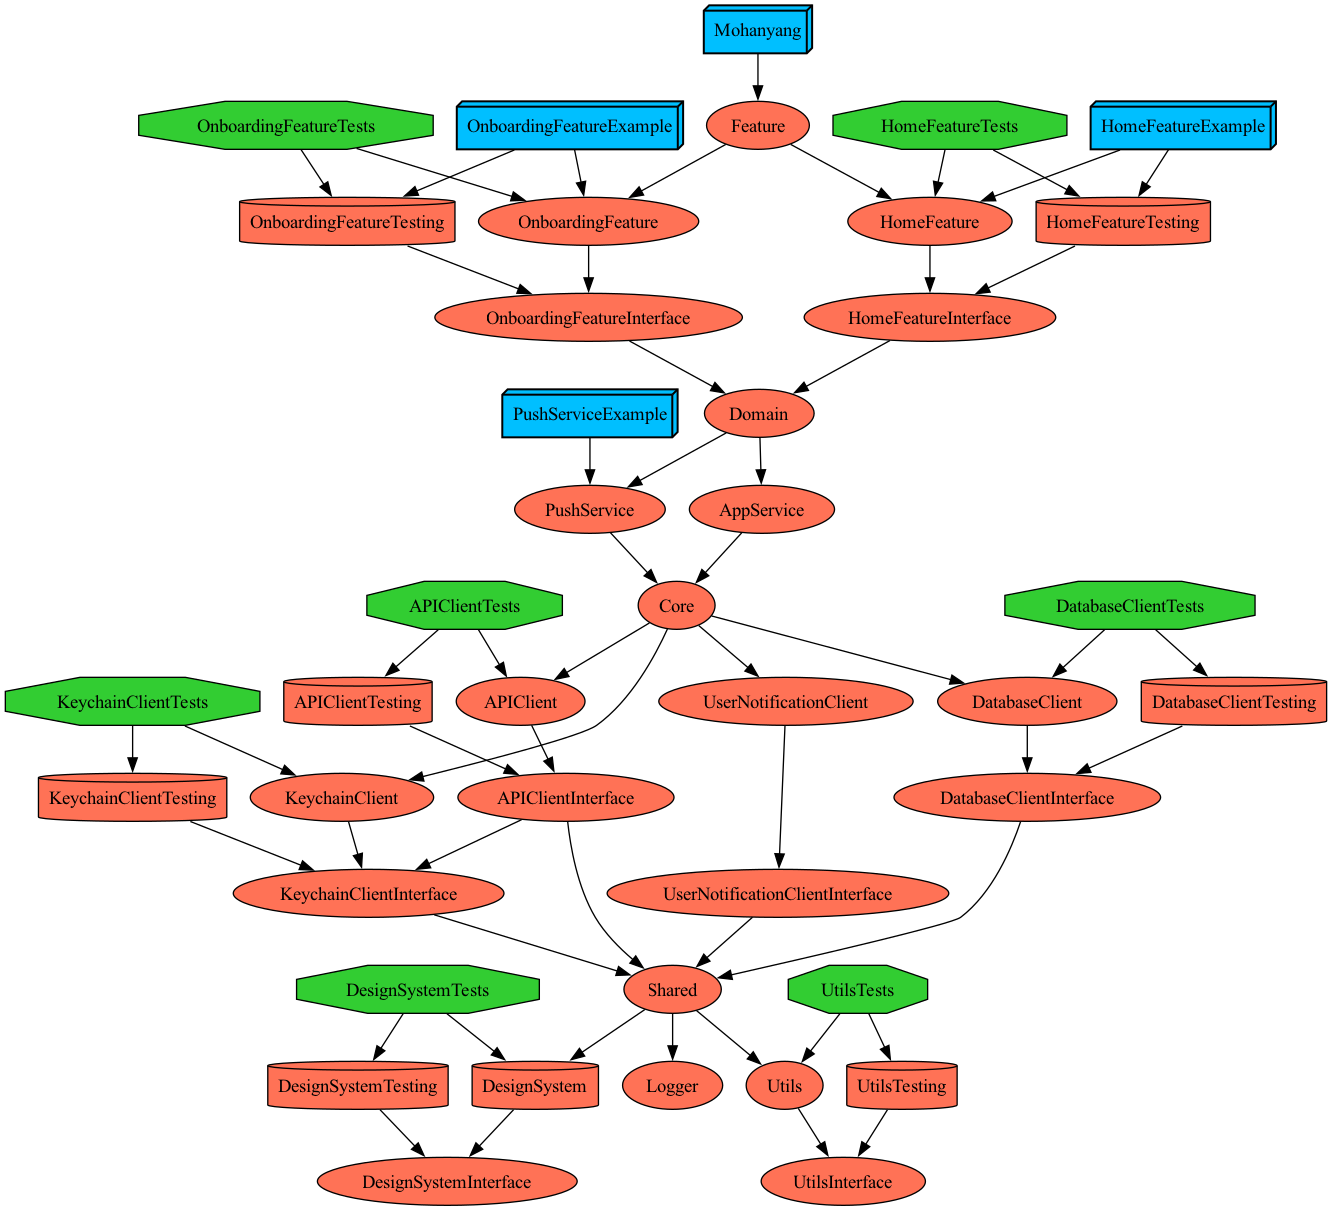
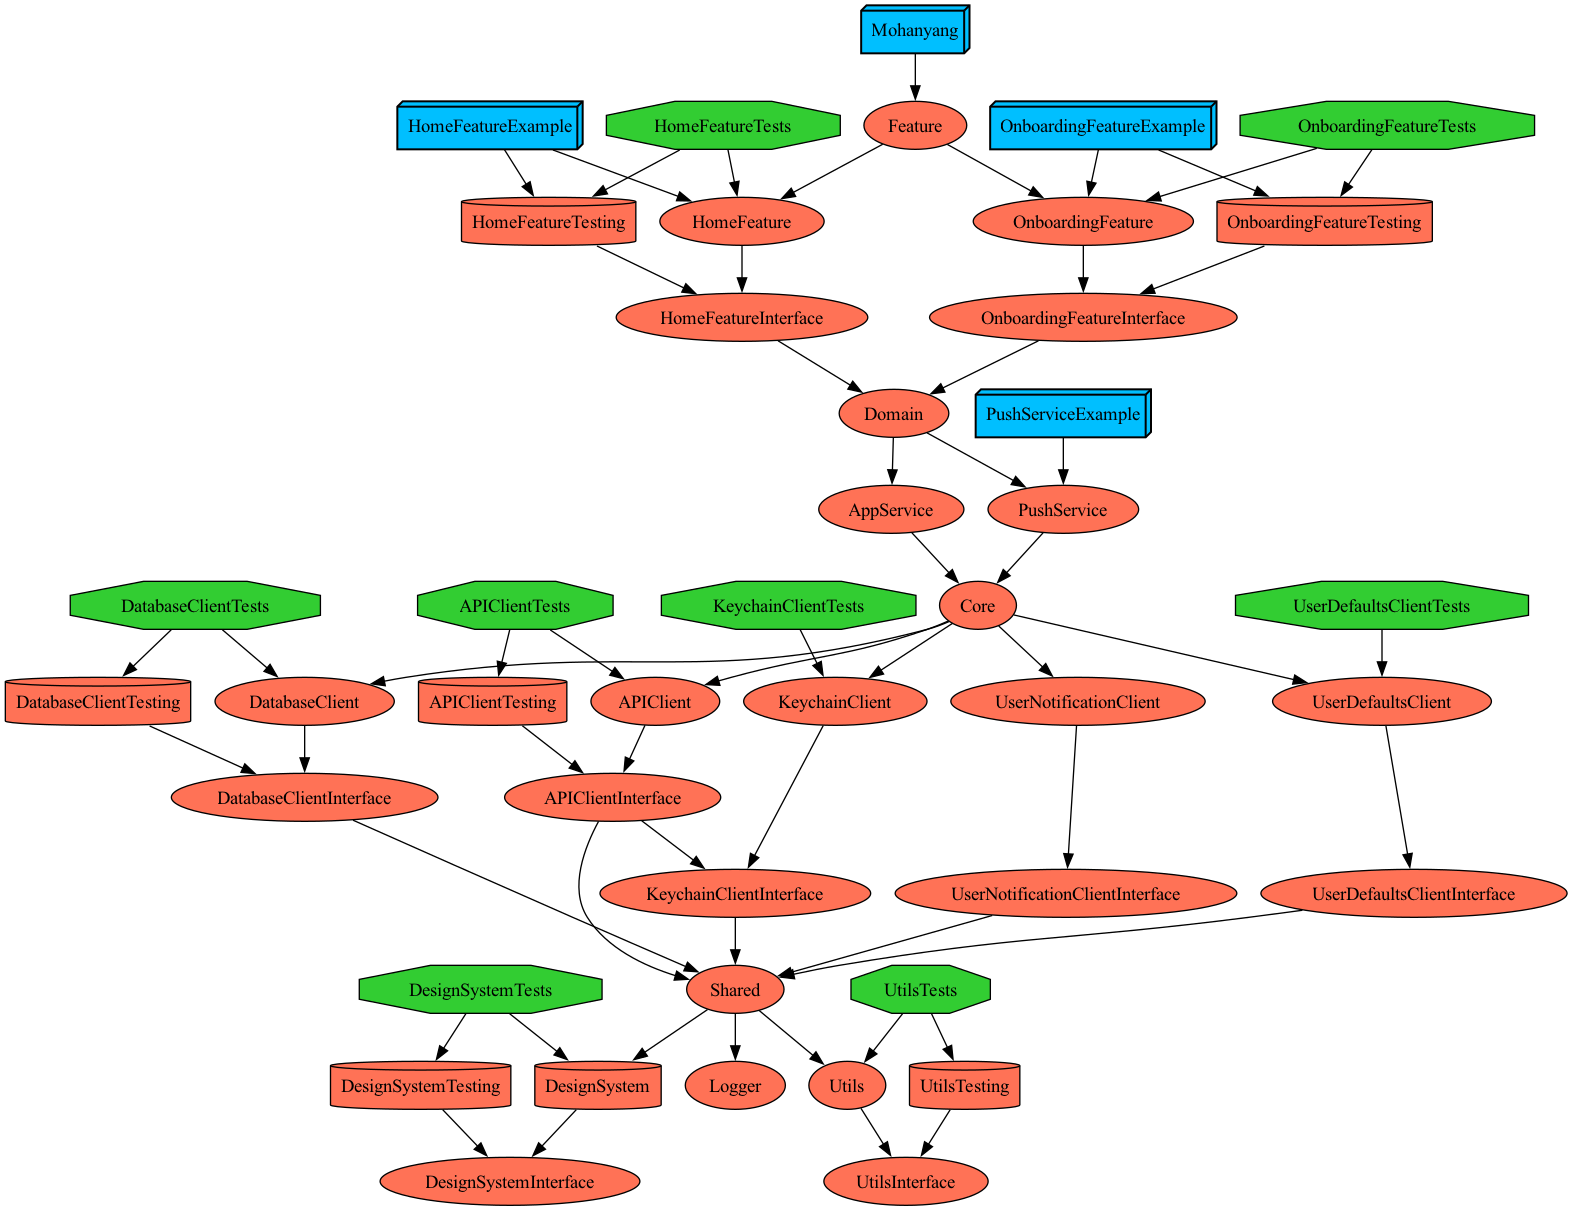
[CAT-104] UserDefaultsClient 모듈 추가 (#16)

Changed region(s): [[0.0, 0.0, 1.0, 1.0], [0.0308, 0.4583, 0.2155, 0.5194]]

diff --git a/Projects/Core/UserDefaultsClient/Tests/UserDefaultsClientTests.swift b/Projects/Core/UserDefaultsClient/Tests/UserDefaultsClientTests.swift
@@ -1,0 +1,129 @@
+//
+//  UserDefaultsClientTests.swift
+//  UserDefaultsClient
+//
+//  Created by devMinseok on 8/4/24.
+//
+
+import XCTest
+
+import UserDefaultsClient
+import UserDefaultsClientInterface
+
+import Dependencies
+
+final class UserDefaultsClientTests: XCTestCase {
+  @Dependency(UserDefaultsClient.self) var userDefaultsClient
+  
+  override func tearDown() {
+    withDependencies {
+      $0[UserDefaultsClient.self] = UserDefaultsClient.live()
+    } operation: {
+      userDefaultsClient.removePersistentDomain(bundleId: Bundle.main.bundleIdentifier ?? "")
+    }
+    super.tearDown()
+  }
+  
+  func testSetString() async {
+    await withDependencies {
+      $0[UserDefaultsClient.self] = UserDefaultsClient.live()
+    } operation: {
+      // given
+      let testKey: String = "TestKey"
+      let testValue: String = "TestString"
+      
+      // when
+      await userDefaultsClient.setString(testValue, key: testKey)
+      
+      // then
+      let result = userDefaultsClient.stringForKey(testKey)
+      XCTAssertEqual(result, testValue)
+    }
+  }
+  
+  func testSetBool() async {
+    await withDependencies {
+      $0[UserDefaultsClient.self] = UserDefaultsClient.live()
+    } operation: {
+      // given
+      let testKey: String = "TestKeyBool"
+      let testValue: Bool = true
+      
+      // when
+      await userDefaultsClient.setBool(testValue, testKey)
+      
+      // then
+      let result = userDefaultsClient.boolForKey(testKey)
+      XCTAssertEqual(result, testValue)
+    }
+  }
+  
+  func testSetData() async {
+    await withDependencies {
+      $0[UserDefaultsClient.self] = UserDefaultsClient.live()
+    } operation: {
+      // given
+      let testKey: String = "TestKeyData"
+      let testValue: Data = "TestData".data(using: .utf8)!
+      
+      // when
+      await userDefaultsClient.setData(testValue, testKey)
+      
+      // then
+      let result = userDefaultsClient.dataForKey(testKey)
+      XCTAssertEqual(result, testValue)
+    }
+  }
+  
+  func testSetDouble() async {
+    await withDependencies {
+      $0[UserDefaultsClient.self] = UserDefaultsClient.live()
+    } operation: {
+      // given
+      let testKey: String = "TestKeyDouble"
+      let testValue: Double = 123.456
+      
+      // when
+      await userDefaultsClient.setDouble(testValue, testKey)
+      
+      // then
+      let result = userDefaultsClient.doubleForKey(testKey)
+      XCTAssertEqual(result, testValue)
+    }
+  }
+  
+  func testSetInteger() async {
+    await withDependencies {
+      $0[UserDefaultsClient.self] = UserDefaultsClient.live()
+    } operation: {
+      // given
+      let testKey: String = "TestKeyInteger"
+      let testValue: Int = 123
+      
+      // when
+      await userDefaultsClient.setInteger(testValue, testKey)
+      
+      // then
+      let result = userDefaultsClient.integerForKey(testKey)
+      XCTAssertEqual(result, testValue)
+    }
+  }
+  
+  func testRemove() async {
+    await withDependencies {
+      $0[UserDefaultsClient.self] = UserDefaultsClient.live()
+    } operation: {
+      // given
+      let testKey: String = "TestKeyRemove"
+      let testValue: String = "TestString"
+      await userDefaultsClient.setString(testValue, testKey)
+      
+      // when
+      await userDefaultsClient.remove(testKey)
+      
+      // then
+      let result = userDefaultsClient.stringForKey(testKey)
+      XCTAssertNil(result)
+    }
+  }
+}

diff --git a/Projects/Core/UserDefaultsClient/Interface/UserDefaultsClientInterface.swift b/Projects/Core/UserDefaultsClient/Interface/UserDefaultsClientInterface.swift
@@ -1,0 +1,44 @@
+//
+//  UserDefaultsClientInterface.swift
+//  UserDefaultsClient
+//
+//  Created by devMinseok on 8/4/24.
+//
+
+import Foundation
+
+import Dependencies
+import DependenciesMacros
+
+@DependencyClient
+public struct UserDefaultsClient {
+  // MARK: - Create, Update
+  
+  public var setString: @Sendable (String?, _ key: String) async -> Void
+  public var setBool: @Sendable (Bool, _ key: String) async -> Void
+  public var setData: @Sendable (Data?, _ key: String) async -> Void
+  public var setDouble: @Sendable (Double, _ key: String) async -> Void
+  public var setInteger: @Sendable (Int, _ key: String) async -> Void
+  
+  // MARK: - Read
+  
+  public var stringForKey: @Sendable (String) -> String?
+  public var boolForKey: @Sendable (String) -> Bool = { _ in false }
+  public var dataForKey: @Sendable (String) -> Data?
+  public var doubleForKey: @Sendable (String) -> Double = { _ in 0.0 }
+  public var integerForKey: @Sendable (String) -> Int = { _ in 0 }
+  
+  
+  // MARK: - Delete
+  
+  public var remove: @Sendable (String) async -> Void
+  
+  // MARK: - Reset
+  
+  public var removePersistentDomain: @Sendable (_ bundleId: String) -> Void
+}
+
+extension UserDefaultsClient: TestDependencyKey {
+  public static var testValue = Self()
+  public static var previewValue = Self()
+}

diff --git a/Projects/Core/UserDefaultsClient/Sources/UserDefaultsClient.swift b/Projects/Core/UserDefaultsClient/Sources/UserDefaultsClient.swift
@@ -1,0 +1,34 @@
+//
+//  UserDefaultsClient.swift
+//  UserDefaultsClient
+//
+//  Created by devMinseok on 8/4/24.
+//
+
+import Foundation
+
+import Dependencies
+
+import UserDefaultsClientInterface
+
+extension UserDefaultsClient: DependencyKey {
+  public static let liveValue: UserDefaultsClient = .live()
+  
+  public static func live() -> UserDefaultsClient {
+    let userDefaults = { UserDefaults.standard }
+    return .init(
+      setString: { userDefaults().set($0, forKey: $1) },
+      setBool: { userDefaults().set($0, forKey: $1) },
+      setData: { userDefaults().set($0, forKey: $1) },
+      setDouble: { userDefaults().set($0, forKey: $1) },
+      setInteger: { userDefaults().set($0, forKey: $1) },
+      stringForKey: { userDefaults().string(forKey: $0) },
+      boolForKey: { userDefaults().bool(forKey: $0) },
+      dataForKey: { userDefaults().data(forKey: $0) },
+      doubleForKey: { userDefaults().double(forKey: $0) },
+      integerForKey: { userDefaults().integer(forKey: $0) },
+      remove: { userDefaults().removeObject(forKey: $0) },
+      removePersistentDomain: { userDefaults().removePersistentDomain(forName: $0) }
+    )
+  }
+}

diff --git a/Projects/Core/DatabaseClient/Interface/DatabaseClientInterface.swift b/Projects/Core/DatabaseClient/Interface/DatabaseClientInterface.swift
@@ -17,7 +17,7 @@ public struct DatabaseClient {
   /// Use create<T: Persistable>(object:).
   public var create: @Sendable (any Persistable) async throws -> Void
   /// Use read<T: Persistable>(_ type:).
-  public var read: @Sendable (any Persistable.Type) async throws -> [Object]
+  public var read: @Sendable (Object.Type) async throws -> [Object]
   /// Use read<T: Persistable>(_ type:, predicateFormat:, args:).
   public var readWithFilter: @Sendable (Object.Type, String, Any) async throws -> [Object]
   /// Use update<T: Persistable>(_ object:)
@@ -36,7 +36,7 @@ public struct DatabaseClient {
   }
   
   public func read<T: Persistable>(_ type: T.Type) async throws -> [T] {
-    let results = try await self.read(type)
+    let results = try await self.read(type.ManagedObject)
     return await Self.realmActor?.convertToPersistable(type: type, objects: results) ?? []
   }
   

diff --git a/Projects/Core/UserNotificationClient/Sources/Implementation.swift b/Projects/Core/UserNotificationClient/Sources/Implementation.swift
@@ -76,7 +76,11 @@ extension UserNotificationClient {
       withCompletionHandler completionHandler: @escaping () -> Void
     ) {
       self.continuation.yield(
-        .didReceiveResponse(.init(rawValue: response)) { completionHandler() }
+        .didReceiveResponse(.init(rawValue: response)) {
+          Task { @MainActor in
+            completionHandler()
+          }
+        }
       )
     }
     
@@ -96,7 +100,11 @@ extension UserNotificationClient {
       @escaping (UNNotificationPresentationOptions) -> Void
     ) {
       self.continuation.yield(
-        .willPresentNotification(.init(rawValue: notification)) { completionHandler($0) }
+        .willPresentNotification(.init(rawValue: notification)) { options in
+          Task { @MainActor in
+            completionHandler(options)
+          }
+        }
       )
     }
   }

diff --git a/Projects/Core/UserDefaultsClient/Project.swift b/Projects/Core/UserDefaultsClient/Project.swift
@@ -1,3 +1,10 @@
+//
+//  UserDefaultsClientTesting.swift
+//  UserDefaultsClientManifests
+//
+//  Created by devMinseok on 8/4/24.
+//
+
 import ProjectDescription
 import ProjectDescriptionHelpers
 
@@ -6,7 +13,7 @@ import ProjectDescriptionHelpers
 import DependencyPlugin
 
 let project: Project = .makeTMABasedProject(
-  module: Core.KeychainClient,
+  module: Core.UserDefaultsClient,
   scripts: [],
   targets: [
     .sources,

diff --git a/Projects/Core/DatabaseClient/Sources/DatabaseClient.swift b/Projects/Core/DatabaseClient/Sources/DatabaseClient.swift
@@ -31,7 +31,7 @@ extension DatabaseClient: DependencyKey {
       },
       read: { type in
         if let realmActor {
-          let results = await realmActor.read(type.ManagedObject as! Object.Type)
+          let results = await realmActor.read(type as! Object.Type)
           return results
         } else {
           throw(NSError(domain: "Realm is not initialized", code: 0))

diff --git a/Projects/Core/Core/Sources/Exports.swift b/Projects/Core/Core/Sources/Exports.swift
@@ -10,3 +10,9 @@
 @_exported import APIClientInterface
 @_exported import KeychainClient
 @_exported import KeychainClientInterface
+@_exported import UserDefaultsClient
+@_exported import UserDefaultsClientInterface
+@_exported import UserNotificationClient
+@_exported import UserNotificationClientInterface
+@_exported import DatabaseClient
+@_exported import DatabaseClientInterface

diff --git a/Projects/Feature/Feature/Sources/AppDelegateCore.swift b/Projects/Feature/Feature/Sources/AppDelegateCore.swift
@@ -1,6 +1,6 @@
 //
 //  AppDelegateCore.swift
-//  AppServiceInterface
+//  Feature
 //
 //  Created by devMinseok on 7/22/24.
 //  Copyright © 2024 PomoNyang. All rights reserved.

diff --git a/Projects/Feature/Feature/Sources/AppView.swift b/Projects/Feature/Feature/Sources/AppView.swift
@@ -1,6 +1,6 @@
 //
 //  AppServcieView.swift
-//  AppServiceInterface
+//  Feature
 //
 //  Created by devMinseok on 7/22/24.
 //  Copyright © 2024 PomoNyang. All rights reserved.

diff --git a/Projects/Feature/Feature/Sources/AppCore.swift b/Projects/Feature/Feature/Sources/AppCore.swift
@@ -1,6 +1,6 @@
 //
 //  AppCore.swift
-//  AppServiceInterface
+//  Feature
 //
 //  Created by devMinseok on 7/22/24.
 //  Copyright © 2024 PomoNyang. All rights reserved.

diff --git a/Plugins/DependencyPlugin/ProjectDescriptionHelpers/Module/Core.swift b/Plugins/DependencyPlugin/ProjectDescriptionHelpers/Module/Core.swift
@@ -13,4 +13,5 @@ public enum Core: String, Modulable {
   case KeychainClient
   case UserNotificationClient
   case DatabaseClient
+  case UserDefaultsClient
 }
